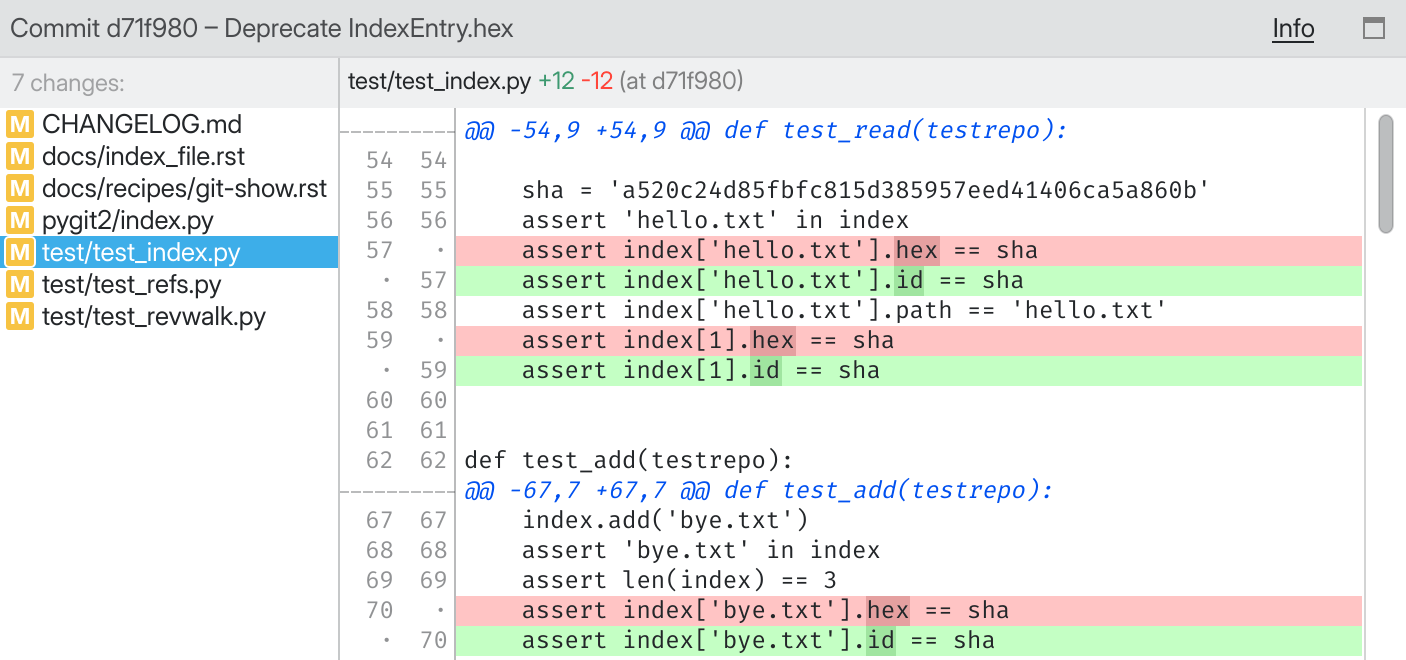
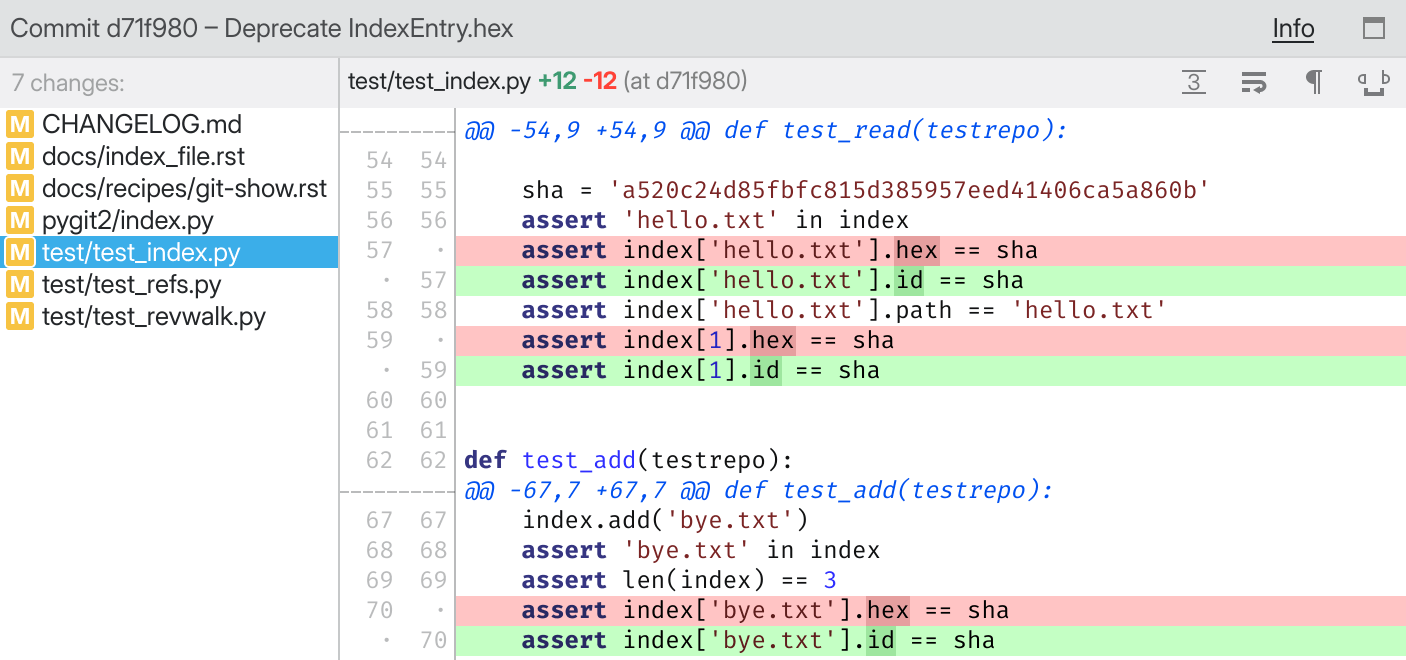
Document DiffView button strip

diff --git a/guide/diff.rst b/guide/diff.rst
@@ -191,3 +191,29 @@ Some special lines can be double-clicked to select blocks of code effortlessly:
 
 Once you've selected lines from the gutter, you can |rmb| right-click to access
 the usual line selection actions (stage, discard, etc.).
+
+Diff View button strip
+----------------------
+
+:gfversion:`New in v1.9.0:` A strip of buttons above the Diff View lets you adjust the presentation of the diff.
+
+.. figure:: /assets/screens/diffviewbuttonstrip.png
+
+.. list-table::
+    :header-rows: 0
+    :class: table-cancelfont
+
+    * - :gficon:`diff-context-lines`
+      - Amount of context lines
+
+    * - :gficon:`diff-wrap`
+      - Word wrap
+
+    * - :gficon:`diff-show-whitespace`
+      - Show whitespace characters
+
+    * - :gficon:`diff-whitespace-strict`
+      - Don't ignore whitespace changes in the diff
+
+    * - :gficon:`diff-svg`
+      - SVG image preview (where applicable)
